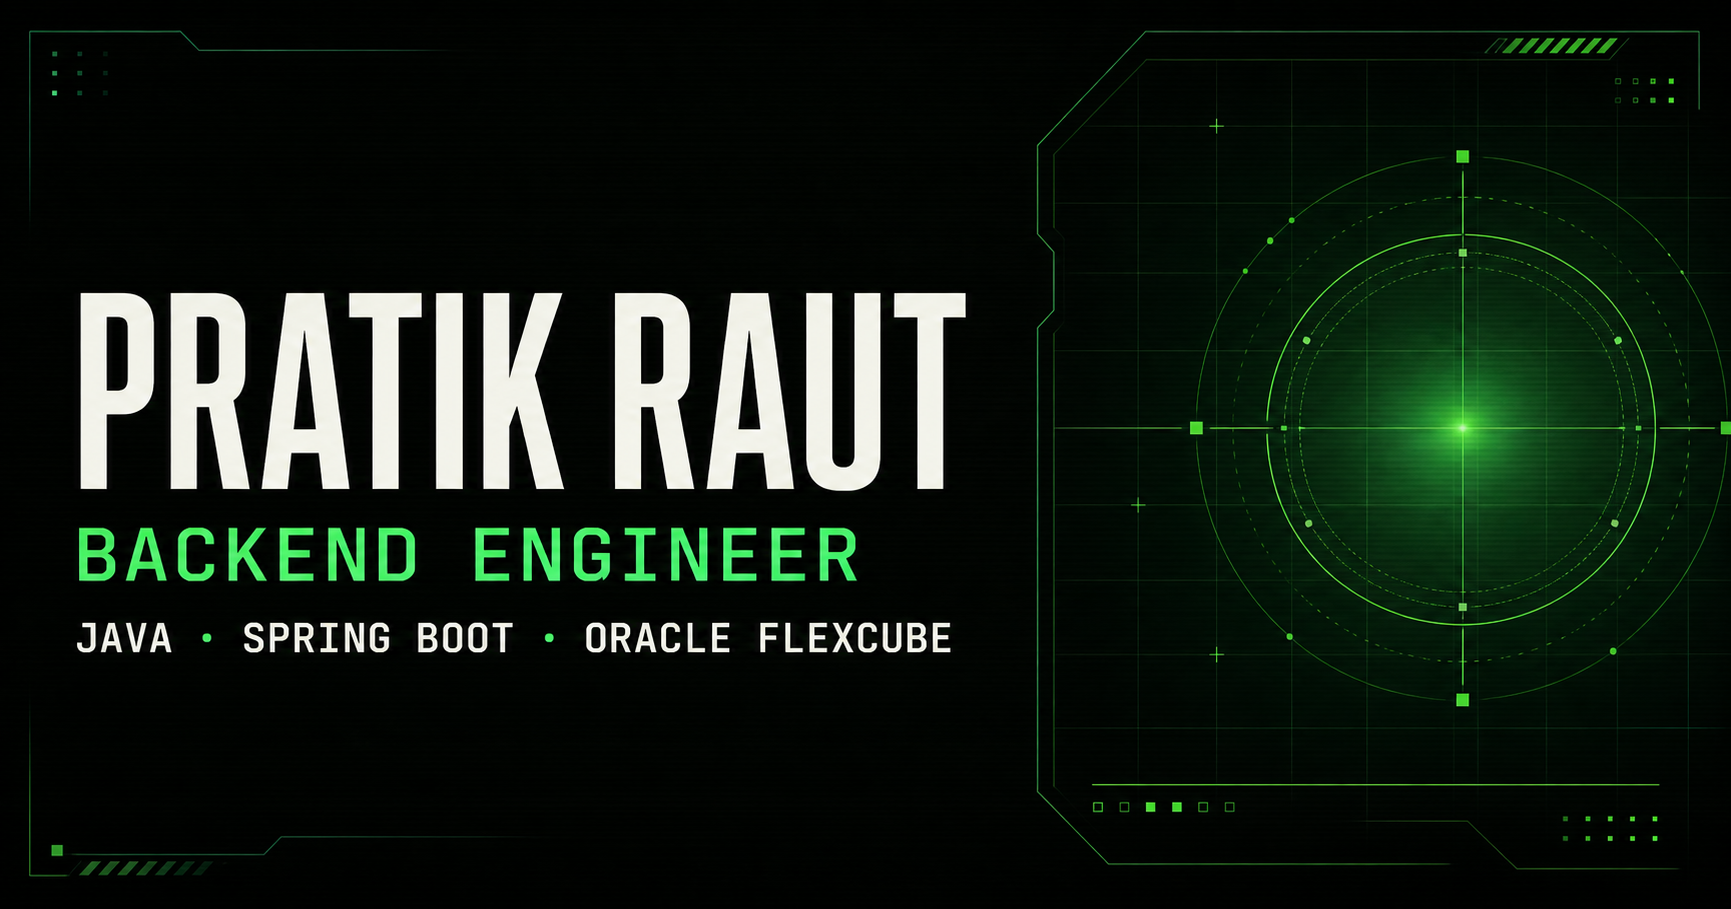
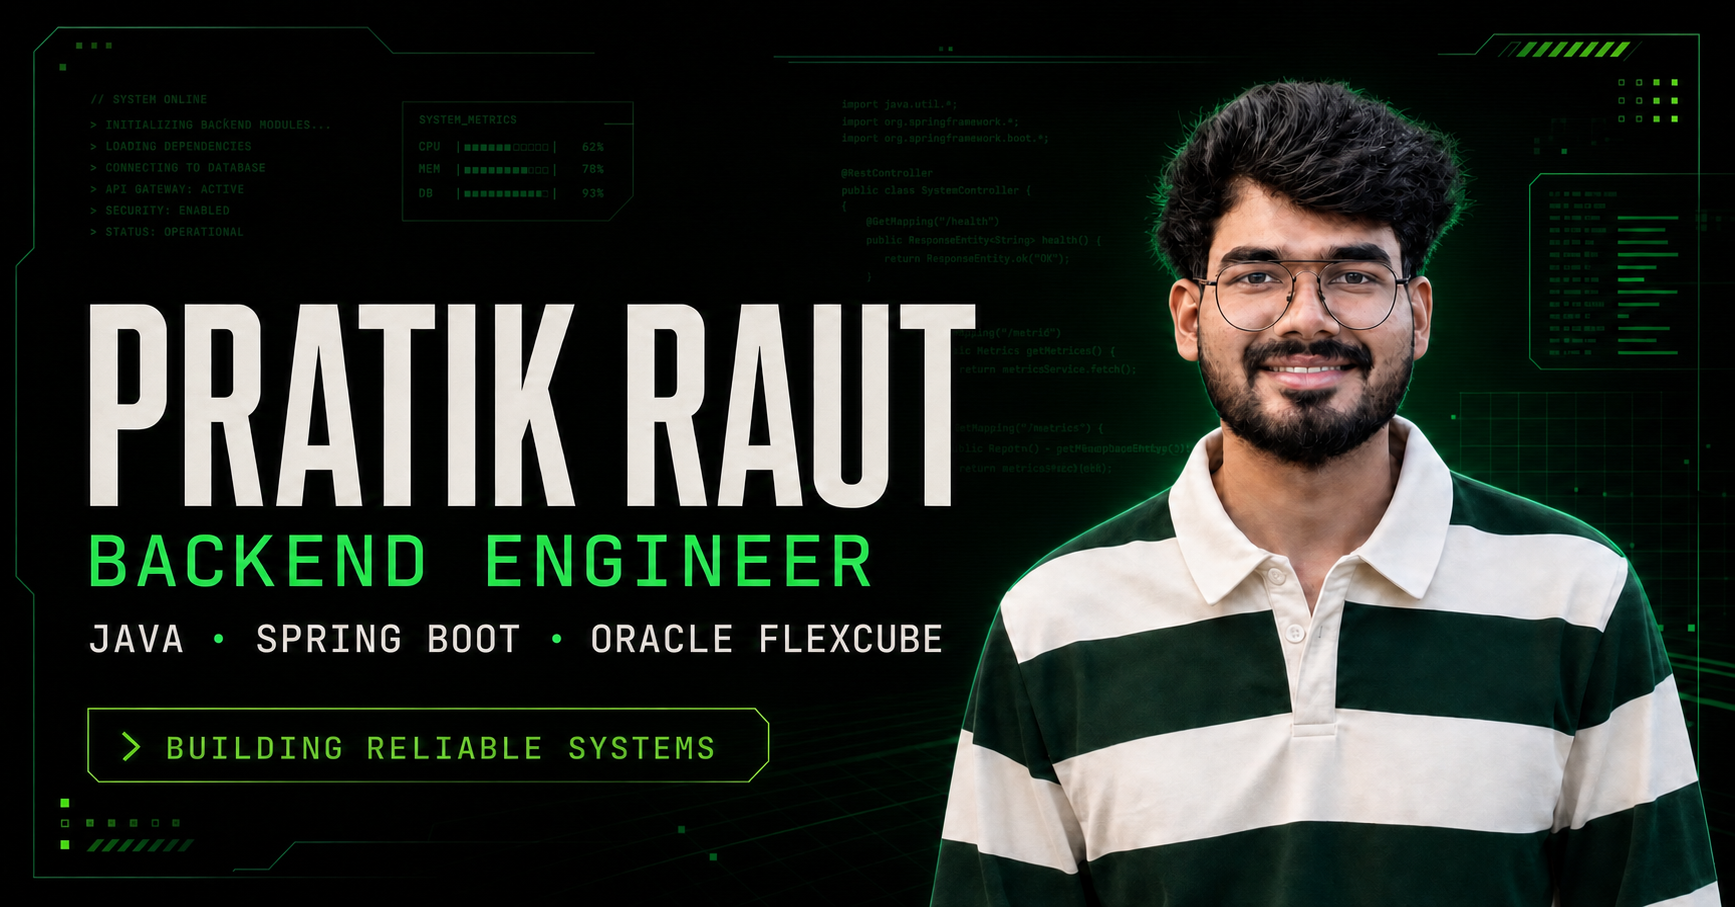
Upgrade portfolio social preview

diff --git a/app/layout.tsx b/app/layout.tsx
@@ -9,6 +9,7 @@ const siteUrl = new URL(
   configuredSiteUrl.endsWith("/") ? configuredSiteUrl : `${configuredSiteUrl}/`,
 );
 const publicUrl = (asset: string) => new URL(asset, siteUrl).toString();
+const socialImageUrl = `${publicUrl("og.png")}?v=20260801`;
 
 export const metadata: Metadata = {
   metadataBase: siteUrl,
@@ -48,9 +49,9 @@ export const metadata: Metadata = {
     url: siteUrl,
     images: [
       {
-        url: publicUrl("og.png"),
-        width: 1731,
-        height: 909,
+        url: socialImageUrl,
+        width: 1735,
+        height: 907,
         alt: "Pratik Raut — Backend Engineer",
       },
     ],
@@ -59,7 +60,7 @@ export const metadata: Metadata = {
     card: "summary_large_image",
     title: "Pratik Raut | Backend Engineer",
     description,
-    images: [publicUrl("og.png")],
+    images: [socialImageUrl],
   },
 };
 
